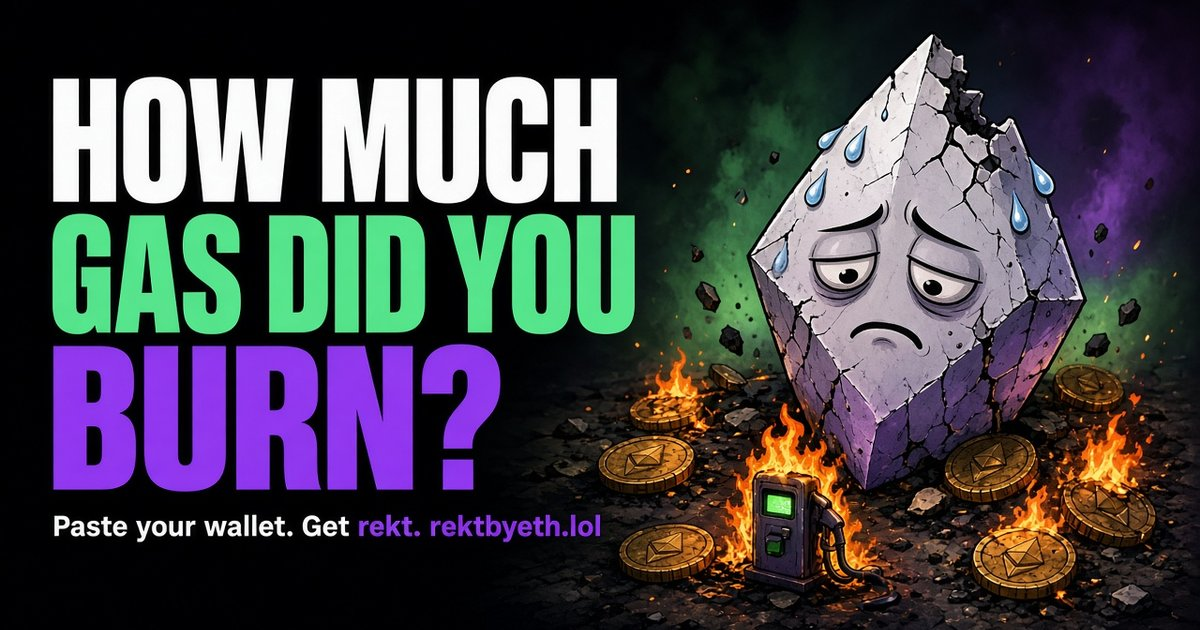
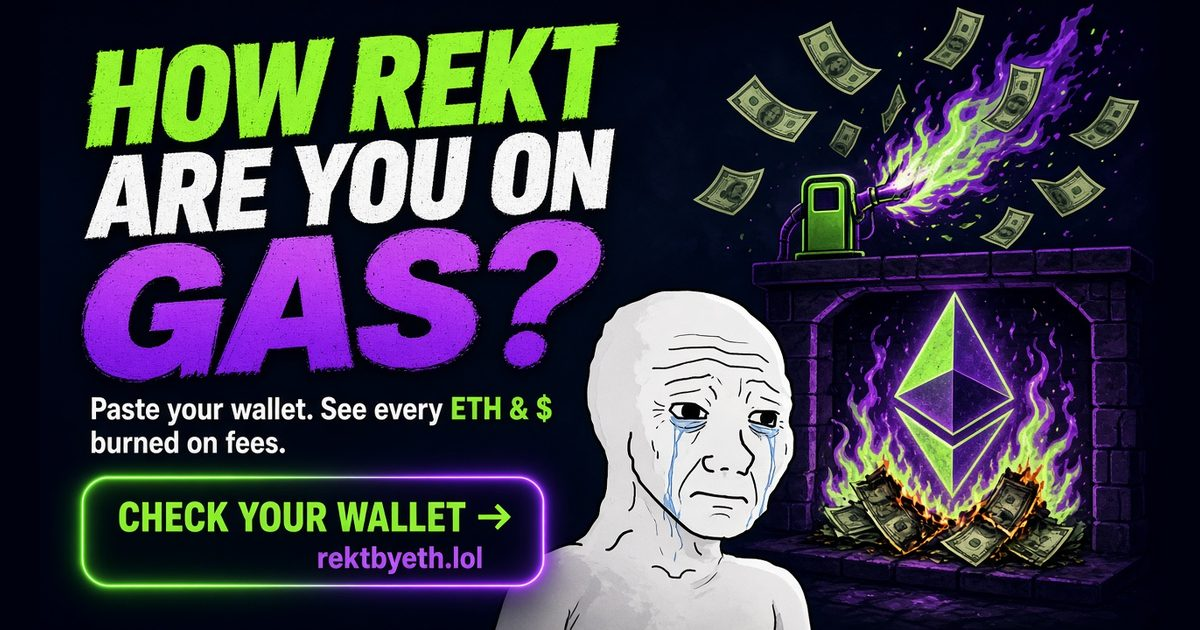
head: og/twitter meta tags + wojak preview card

diff --git a/index.html b/index.html
@@ -4,6 +4,16 @@
 <meta charset="utf-8"><meta name="viewport" content="width=device-width,initial-scale=1"><meta name="referrer" content="no-referrer">
 <meta name="description" content="How much gas an Ethereum mainnet wallet has spent, in ETH and in USD at each transaction day's close.">
 <title>Wallet gas</title>
+<meta property="og:type" content="website">
+<meta property="og:url" content="https://rektbyeth.lol/">
+<meta property="og:title" content="rektbyeth.lol">
+<meta property="og:description" content="How much gas an Ethereum mainnet wallet has spent, in ETH and in USD at each transaction day's close.">
+<meta property="og:image" content="https://rektbyeth.lol/og.jpg">
+<meta property="og:image:width" content="1200">
+<meta property="og:image:height" content="630">
+<meta property="og:image:alt" content="How rekt are you on gas? Paste your wallet. See every ETH &amp; $ burned on fees. rektbyeth.lol">
+<meta name="twitter:card" content="summary_large_image">
+<meta name="twitter:image" content="https://rektbyeth.lol/og.jpg">
 <script>try{document.documentElement.dataset.theme=localStorage.getItem('wallet-gas-theme')==='light'?'light':'dark'}catch(e){document.documentElement.dataset.theme='dark'}</script>
 <style>
 /* Font: Inter 4.1 (rsms), SIL Open Font License 1.1, Latin subset embedded below. */
